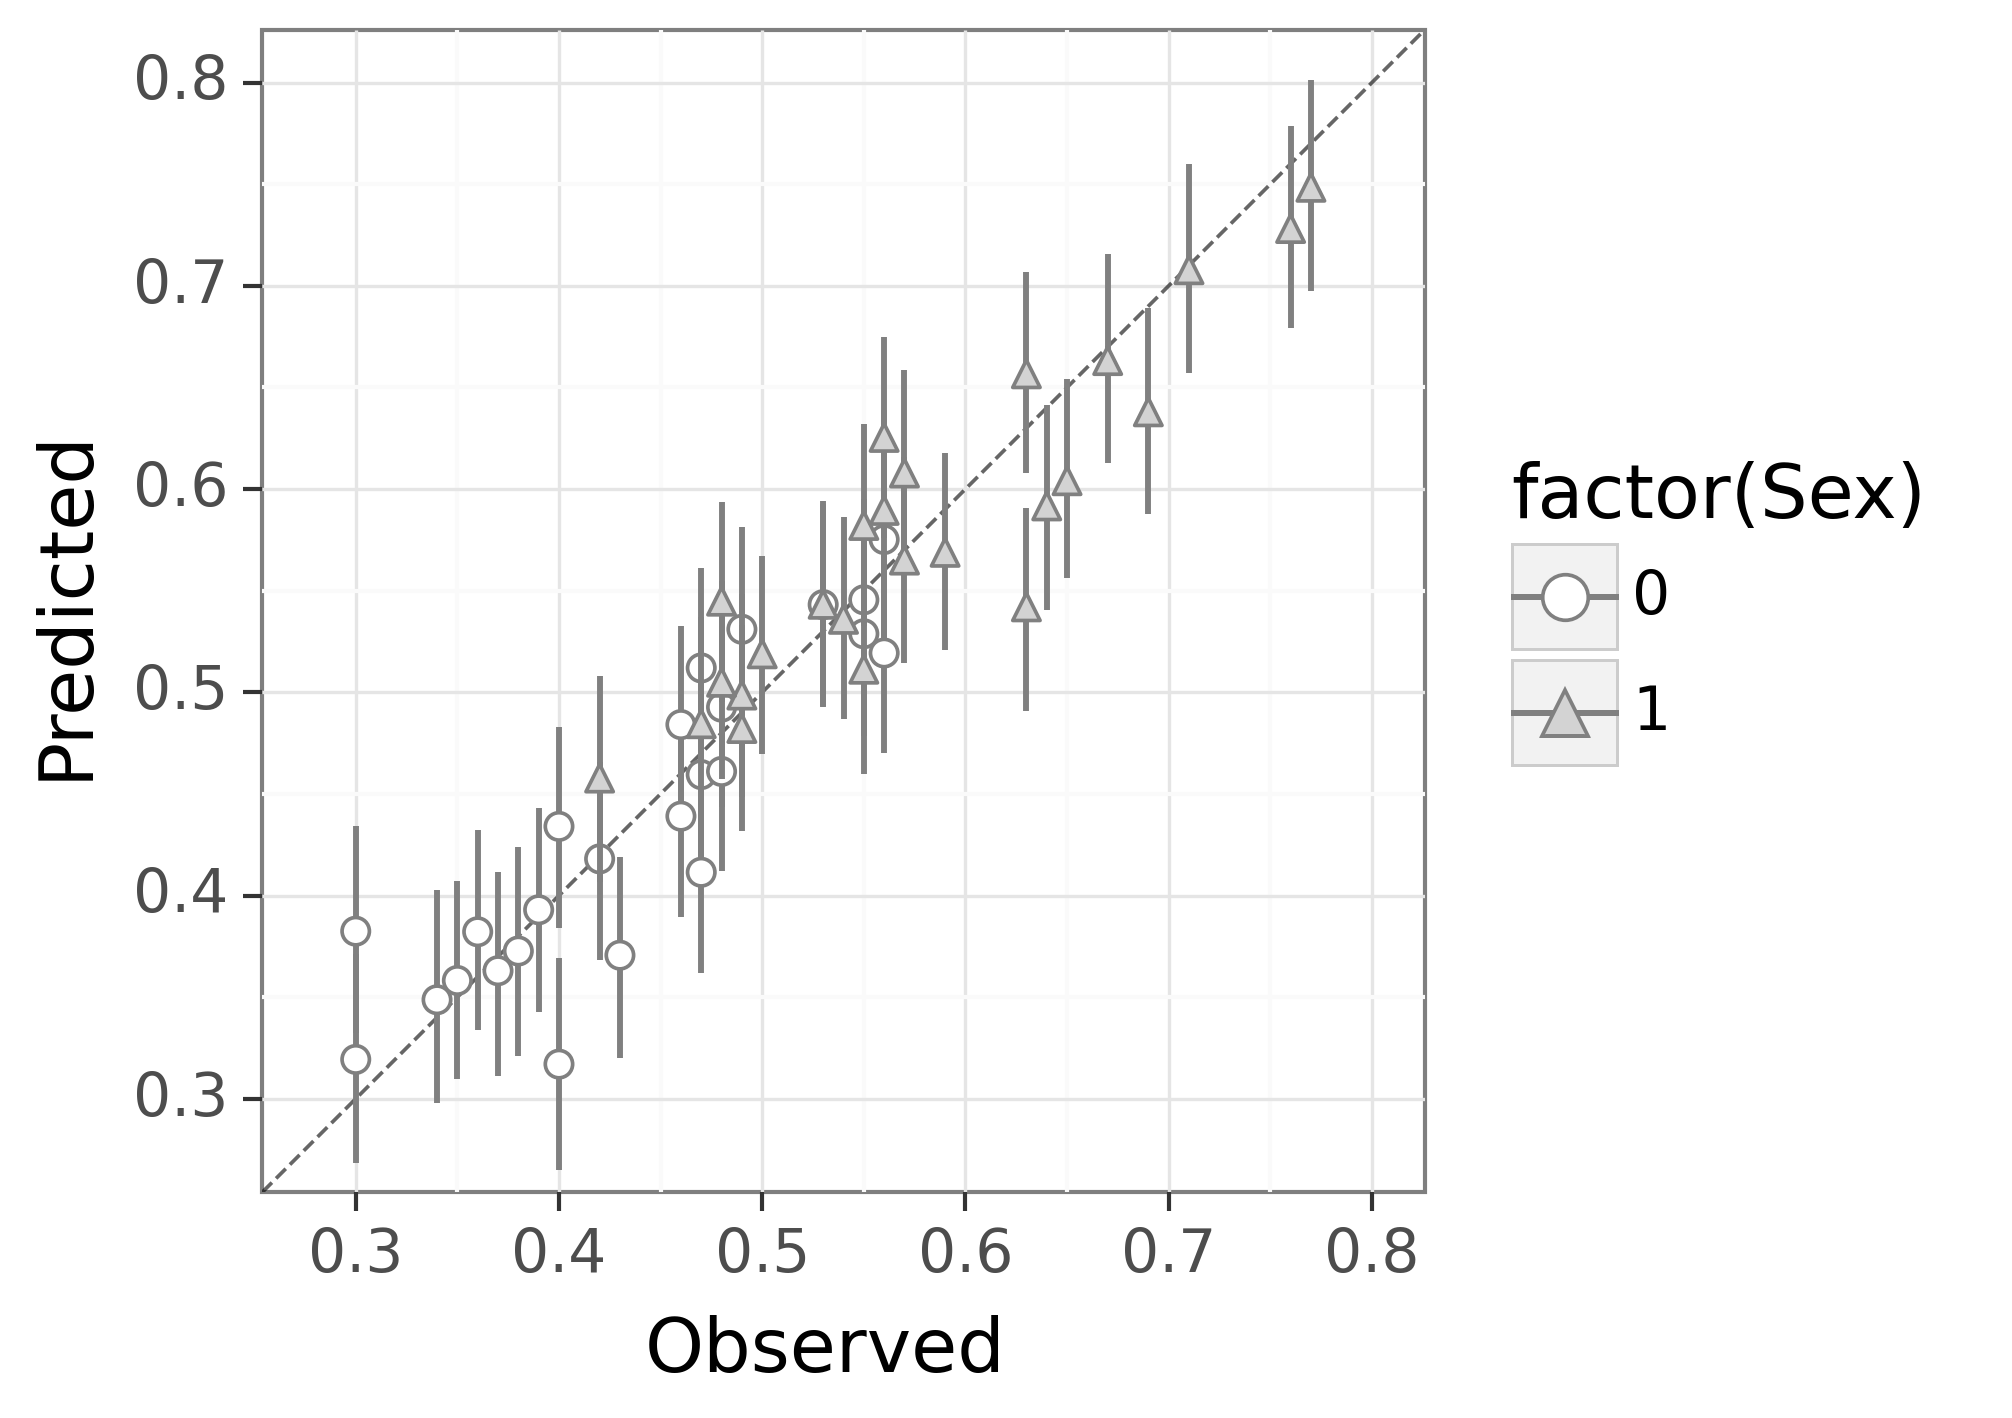
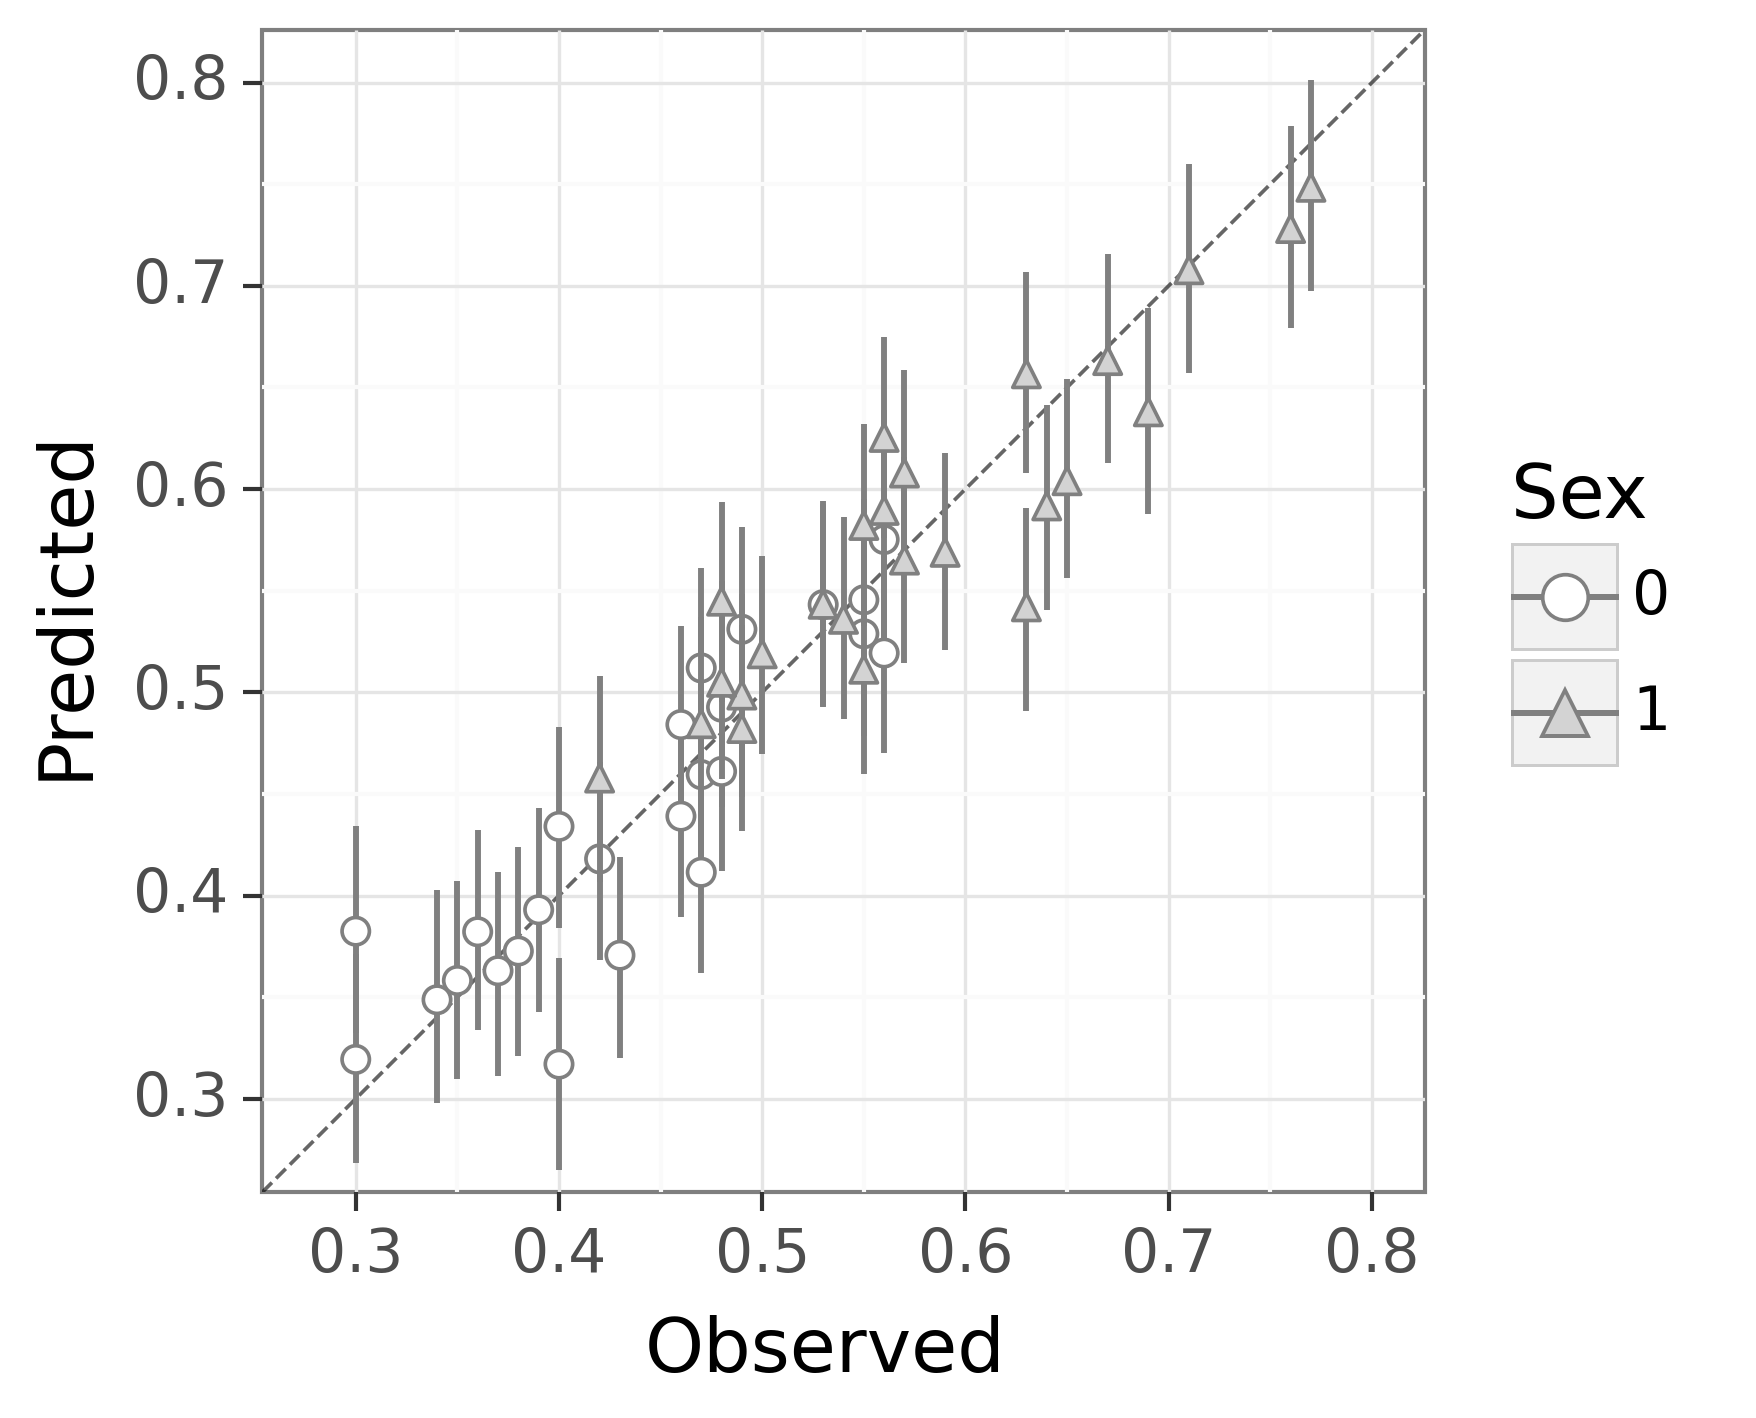
small change

diff --git a/chap07/fig7-1.py b/chap07/fig7-1.py
@@ -6,12 +6,14 @@ d = pandas.read_csv('input/data-rental.csv')
 p = (ggplot(d, aes('Area', 'Y'))
     + theme_bw(base_size=18)
     + geom_point(shape='o', size=2)
-    + scale_x_continuous(breaks=range(20, 140, 20)))
+    + scale_x_continuous(breaks=range(20, 140, 20))
+)
 p.save(filename='output/fig7-1-left.py.png', dpi=300, width=4, height=3)
 
 p = (ggplot(d, aes('Area', 'Y'))
     + theme_bw(base_size=18)
     + geom_point(shape='o', size=2)
     + scale_x_log10(breaks=[1,2,5,10,20,50,100], limits=[9, 120])
-    + scale_y_log10(breaks=[10,20,50,100,200,500,1000,2000]))
+    + scale_y_log10(breaks=[10,20,50,100,200,500,1000,2000])
+)
 p.save(filename='output/fig7-1-right.py.png', dpi=300, width=4, height=3)

diff --git a/chap07/fig7-3-right.py b/chap07/fig7-3-right.py
@@ -17,5 +17,6 @@ p = (ggplot(d_est, aes('X', '50%'))
     + coord_fixed(ratio=1, xlim=[-50, 1900], ylim=[-50, 1900])
     + geom_pointrange(aes(ymin='10%', ymax='90%'), color='gray', fill='gray', shape='o')
     + geom_abline(aes(slope=1, intercept=0), color='black', alpha=3/5, linetype='dashed')
-    + labs(x='Observed', y='Predicted'))
+    + labs(x='Observed', y='Predicted')
+)
 p.save(filename='output/fig7-3-right.py.png', dpi=300, width=4.2, height=4)

diff --git a/chap07/fig7-3-left.py b/chap07/fig7-3-left.py
@@ -17,5 +17,6 @@ p = (ggplot(d_est, aes('X', '50%'))
     + coord_fixed(ratio=1, xlim=[-50, 1900], ylim=[-50, 1900])
     + geom_pointrange(aes(ymin='10%', ymax='90%'), color='gray', fill='gray', shape='o')
     + geom_abline(aes(slope=1, intercept=0), color='black', alpha=3/5, linetype='dashed')
-    + labs(x='Observed', y='Predicted'))
+    + labs(x='Observed', y='Predicted')
+)
 p.save(filename='output/fig7-3-left.py.png', dpi=300, width=4.2, height=4)

diff --git a/chap05/fig5-2-right.py b/chap05/fig5-2-right.py
@@ -22,6 +22,6 @@ p = (ggplot(d_est, aes(x='Y', y='50%', ymin='10%', ymax='90%', shape='factor(Sex
     + labs(x='Observed', y='Predicted')
     + scale_x_continuous(breaks=np.arange(0, 1.1, 0.1))
     + scale_y_continuous(breaks=np.arange(0, 1.1, 0.1))
-    + labs(x='Observed', y='Predicted')
+    + labs(x='Observed', y='Predicted', shape='Sex', fill='Sex')
 ) 
 p.save(filename='output/fig5-2-right.py.png', dpi=300, width=5, height=4)

diff --git a/chap05/fig5-7-left.py b/chap05/fig5-7-left.py
@@ -17,6 +17,6 @@ p = (ggplot(d_comp, aes(x='factor(Y)', y='50%'))
     + geom_boxplot(outlier_alpha=0)
     + geom_point(aes(fill='factor(Sex)', shape='factor(Sex)'), position=position_jitter(width=0.2, height=0), size=1.5)
     + scale_shape_manual(values=['o', '^'])
-    + labs(x='Y', y='q')
+    + labs(x='Y', y='q', fill='Sex', shape='Sex')
 )
 p.save(filename='output/fig5-7-left.py.png', dpi=300, width=5, height=4)

diff --git a/chap07/fig7-11-right.py b/chap07/fig7-11-right.py
@@ -21,5 +21,6 @@ p = (ggplot()
     + geom_line(d_est, aes('X', '50%'), size=0.5)
     + geom_point(d, aes('X', 'Y'), shape='o', size=3)
     + labs(x='X', y='Y')
-    + coord_cartesian(xlim=[-0.2, 11.2], ylim=[-25, 75]))
+    + coord_cartesian(xlim=[-0.2, 11.2], ylim=[-25, 75])
+)
 p.save(filename='output/fig7-11-right.py.png', dpi=300, width=4, height=3)

diff --git a/chap07/fig7-11-left.py b/chap07/fig7-11-left.py
@@ -21,5 +21,6 @@ p = (ggplot()
     + geom_line(d_est, aes('X', '50%'), size=0.5)
     + geom_point(d, aes('X', 'Y'), shape='o', size=3)
     + labs(x='X', y='Y')
-    + coord_cartesian(xlim=[-0.2, 11.2], ylim=[-25, 75]))
+    + coord_cartesian(xlim=[-0.2, 11.2], ylim=[-25, 75])
+)
 p.save(filename='output/fig7-11-left.py.png', dpi=300, width=4, height=3)

diff --git a/chap07/fig7-2-right.py b/chap07/fig7-2-right.py
@@ -21,5 +21,6 @@ p = (ggplot()
     + geom_line(d_est, aes('X', '50%'), size=1)
     + geom_point(d, aes('Area', 'Y'), shape='o', size=2)
     + coord_cartesian(xlim=[11, 118], ylim=[-50, 1900])
-    + labs(x='Area', y='Y'))
+    + labs(x='Area', y='Y')
+)
 p.save(filename='output/fig7-2-right.py.png', dpi=300, width=4, height=3)

diff --git a/chap07/fig7-2-left.py b/chap07/fig7-2-left.py
@@ -21,5 +21,6 @@ p = (ggplot()
     + geom_line(d_est, aes('X', '50%'), size=1)
     + geom_point(d, aes('Area', 'Y'), shape='o', size=2)
     + coord_cartesian(xlim=[11, 118], ylim=[-50, 1900])
-    + labs(x='Area', y='Y'))
+    + labs(x='Area', y='Y')
+)
 p.save(filename='output/fig7-2-left.py.png', dpi=300, width=4, height=3)

diff --git a/chap07/fig7-4-right.py b/chap07/fig7-4-right.py
@@ -37,5 +37,6 @@ p = (ggplot(d_mode, aes(x='X'))
     + geom_rug(sides='b')
     + stat_function(fun=stats.norm.pdf, args=dict(loc=0, scale=s_MAP), linetype='dashed')
     + labs(x='value', y='density')
-    + xlim(-0.3, 0.4)) 
+    + xlim(-0.3, 0.4)
+) 
 p.save(filename='output/fig7-4-right.py.png', dpi=300, width=4, height=3)

diff --git a/chap07/fig7-10.py b/chap07/fig7-10.py
@@ -7,5 +7,6 @@ p = (ggplot(d, aes('X', 'Y'))
     + theme_bw(base_size=18)
     + geom_point(shape='o', size=3)
     + labs(x='X', y='Y')
-    + coord_cartesian(xlim=[-0.2, 11.2], ylim=[-25, 75]))
+    + coord_cartesian(xlim=[-0.2, 11.2], ylim=[-25, 75])
+)
 p.save(filename='output/fig7-10.py.png', dpi=300, width=4, height=3)

diff --git a/chap07/fig7-4-left.py b/chap07/fig7-4-left.py
@@ -37,5 +37,6 @@ p = (ggplot(d_mode, aes(x='X'))
   + geom_rug(sides='b')
   + stat_function(fun=stats.norm.pdf, args=dict(loc=0, scale=s_MAP), linetype='dashed')
   + labs(x='value', y='density')
-  + xlim(-400, 550)) 
+  + xlim(-400, 550)
+) 
 p.save(filename='output/fig7-4-left.py.png', dpi=300, width=4, height=3)
